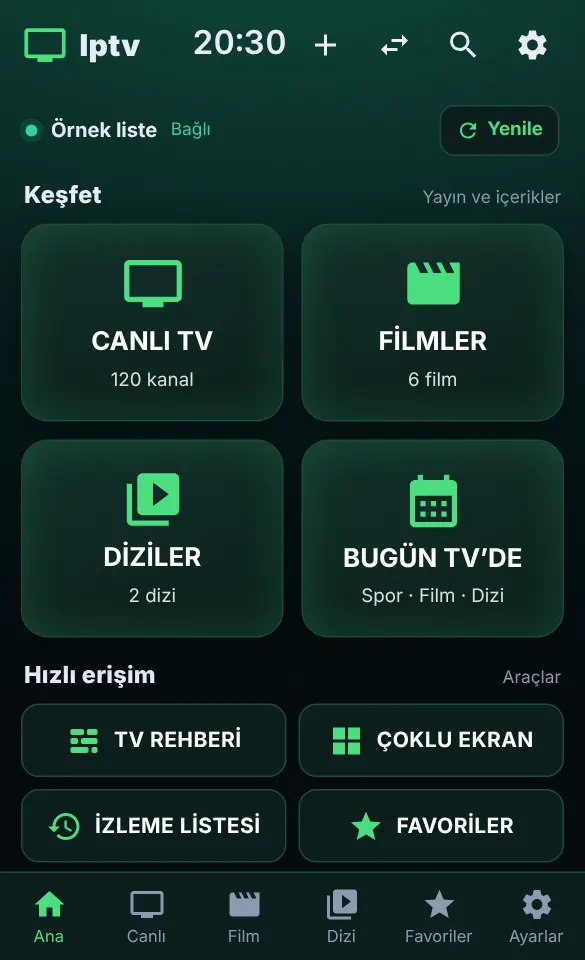
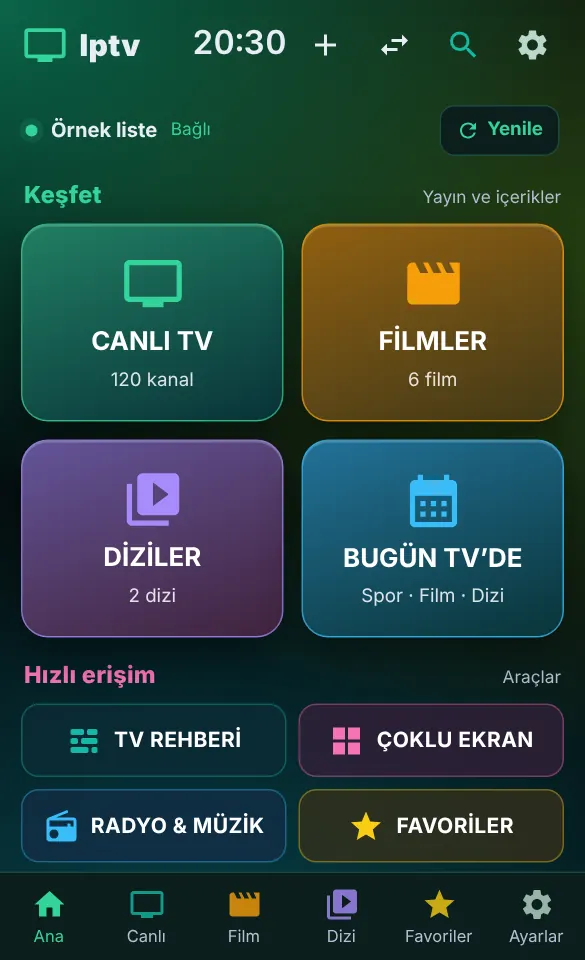
Android: tek renkli temalar canlı, çok renkli temalara çevrildi
- Yeşil, Mavi, Turkuaz, Mor, Turuncu, Kırmızı, Gece yarısı, Okyanus, Grafit, Gül kurusu: üç renkli ışıltılı arka plan, 9 renkli palet, kendi renginde simgeler ve sekmeler
- Ana kutular üç biçimde: cam (glass), dolu gradyan (solid), gradyan çerçeve (neon); kutular ve ayar kutuları paletten boyanır
- Pro kapsamı değişmedi: yalnız eski dört çok renkli tema (pro: true) Pro; dönüştürülen temalar ücretsiz
- Tema önizleme görselleri yeniden üretildi; önizleme betiği port ayarı ve geçici hata şeridi beklemesi kazandı
- Yenilikler kaydı (176)

Claude-Session: https://claude.ai/code/session_013kHKGAN61z3ambXFpmPinE

diff --git a/www/css/app.css b/www/css/app.css
@@ -30,11 +30,12 @@
   --bar-h: 52px;
 }
 /* ---- tema renkleri (Ayarlar → Genel ayarlar → Tema rengi) ---- */
-html[data-theme="blue"] { --bg: #080d1f; --surface: #111a33; --raised: #1b2546; --line: #26315a; --sel: #0e7490; --bg-grad: radial-gradient(1100px 520px at 50% -8%, #1d2d5c 0%, #0b1226 55%, #060a18 100%); --accent: #38bdf8; --accent-ink: #04202c; --accent-soft: rgba(56, 189, 248, 0.18); --mini: #2f6fa3; }
-html[data-theme="cyan"] { --bg: #04141a; --surface: #0a222b; --raised: #103340; --line: #17505f; --sel: #0e7490; --bg-grad: radial-gradient(1100px 520px at 50% -8%, #0f4350 0%, #071c24 55%, #040d12 100%); --accent: #22d3ee; --accent-ink: #02222a; --accent-soft: rgba(34, 211, 238, 0.18); --mini: #178a9c; }
-html[data-theme="purple"] { --bg: #0b0818; --surface: #181233; --raised: #251c4d; --line: #382a73; --sel: #6d28d9; --bg-grad: radial-gradient(1100px 520px at 50% -8%, #2b1b5e 0%, #120b2a 55%, #080515 100%); --accent: #a78bfa; --accent-ink: #170a3a; --accent-soft: rgba(167, 139, 250, 0.2); --mini: #5b3fa8; }
-html[data-theme="orange"] { --bg: #120a04; --surface: #231508; --raised: #35200d; --line: #5a3512; --sel: #c2410c; --bg-grad: radial-gradient(1100px 520px at 50% -8%, #4a2208 0%, #1c0f05 55%, #0c0602 100%); --accent: #fb923c; --accent-ink: #2b1203; --accent-soft: rgba(251, 146, 60, 0.2); --mini: #b45f1d; }
-html[data-theme="red"] { --bg: #12060a; --surface: #251016; --raised: #3a1722; --line: #5c2434; --sel: #be123c; --bg-grad: radial-gradient(1100px 520px at 50% -8%, #4d1220 0%, #1d0910 55%, #0d0407 100%); --accent: #fb7185; --accent-ink: #2d0610; --accent-soft: rgba(251, 113, 133, 0.2); --mini: #b43a52; }
+html[data-theme="green"] { --muted: #b4bfd6; --bg: #050f10; --surface: #0b1f1c; --raised: #12302a; --line: #1d4a3e; --sel: #15803d; --accent: #4ade80; --accent-ink: #032312; --accent-soft: rgba(74, 222, 128, 0.18); --mini: #1f7a52; --bg-grad: radial-gradient(620px 520px at 0% 0%, rgba(16,185,129, 0.5), transparent 62%), radial-gradient(620px 520px at 100% 28%, rgba(132,204,22, 0.26), transparent 62%), radial-gradient(700px 560px at 30% 105%, rgba(6,182,212, 0.32), transparent 62%); --p0: #b9d8cb; --p1: #34d399; --p2: #f59e0b; --p3: #a78bfa; --p4: #38bdf8; --p5: #14b8a6; --p6: #f472b6; --p7: #facc15; --p8: #fb7185; }
+html[data-theme="blue"] { --muted: #b4bfd6; --bg: #080d1f; --surface: #111a33; --raised: #1b2546; --line: #26315a; --sel: #0e7490; --accent: #38bdf8; --accent-ink: #04202c; --accent-soft: rgba(56, 189, 248, 0.18); --mini: #2f6fa3; --bg-grad: radial-gradient(620px 520px at 0% 0%, rgba(59,130,246, 0.48), transparent 62%), radial-gradient(620px 520px at 100% 28%, rgba(139,92,246, 0.34), transparent 62%), radial-gradient(700px 560px at 30% 105%, rgba(6,182,212, 0.3), transparent 62%); --p0: #b4c6ee; --p1: #34d399; --p2: #fb923c; --p3: #a78bfa; --p4: #60a5fa; --p5: #22d3ee; --p6: #f472b6; --p7: #fbbf24; --p8: #fb7185; }
+html[data-theme="cyan"] { --muted: #b4bfd6; --bg: #04141a; --surface: #0a222b; --raised: #103340; --line: #17505f; --sel: #0e7490; --accent: #22d3ee; --accent-ink: #02222a; --accent-soft: rgba(34, 211, 238, 0.18); --mini: #178a9c; --bg-grad: radial-gradient(620px 520px at 0% 0%, rgba(6,182,212, 0.5), transparent 62%), radial-gradient(620px 520px at 100% 28%, rgba(16,185,129, 0.28), transparent 62%), radial-gradient(700px 560px at 30% 105%, rgba(59,130,246, 0.34), transparent 62%); --p0: #aee0e6; --p1: #4ade80; --p2: #fb923c; --p3: #818cf8; --p4: #38bdf8; --p5: #22d3ee; --p6: #f472b6; --p7: #facc15; --p8: #fb7185; }
+html[data-theme="purple"] { --muted: #b4bfd6; --bg: #0b0818; --surface: #181233; --raised: #251c4d; --line: #382a73; --sel: #6d28d9; --accent: #a78bfa; --accent-ink: #170a3a; --accent-soft: rgba(167, 139, 250, 0.2); --mini: #5b3fa8; --bg-grad: radial-gradient(620px 520px at 0% 0%, rgba(139,92,246, 0.55), transparent 62%), radial-gradient(620px 520px at 100% 28%, rgba(217,70,239, 0.34), transparent 62%), radial-gradient(700px 560px at 30% 105%, rgba(59,130,246, 0.3), transparent 62%); --p0: #cbbdf0; --p1: #34d399; --p2: #fb923c; --p3: #c084fc; --p4: #818cf8; --p5: #22d3ee; --p6: #f472b6; --p7: #fbbf24; --p8: #fb7185; }
+html[data-theme="orange"] { --muted: #b4bfd6; --bg: #120a04; --surface: #231508; --raised: #35200d; --line: #5a3512; --sel: #c2410c; --accent: #fb923c; --accent-ink: #2b1203; --accent-soft: rgba(251, 146, 60, 0.2); --mini: #b45f1d; --bg-grad: radial-gradient(620px 520px at 0% 0%, rgba(249,115,22, 0.46), transparent 62%), radial-gradient(620px 520px at 100% 28%, rgba(244,63,94, 0.3), transparent 62%), radial-gradient(700px 560px at 30% 105%, rgba(245,158,11, 0.26), transparent 62%); --p0: #f0cfae; --p1: #a3e635; --p2: #fb923c; --p3: #c084fc; --p4: #38bdf8; --p5: #2dd4bf; --p6: #fb7185; --p7: #fbbf24; --p8: #f87171; }
+html[data-theme="red"] { --muted: #b4bfd6; --bg: #12060a; --surface: #251016; --raised: #3a1722; --line: #5c2434; --sel: #be123c; --accent: #fb7185; --accent-ink: #2d0610; --accent-soft: rgba(251, 113, 133, 0.2); --mini: #b43a52; --bg-grad: radial-gradient(620px 520px at 0% 0%, rgba(244,63,94, 0.48), transparent 62%), radial-gradient(620px 520px at 100% 28%, rgba(249,115,22, 0.26), transparent 62%), radial-gradient(700px 560px at 30% 105%, rgba(168,85,247, 0.3), transparent 62%); --p0: #f0bcc6; --p1: #4ade80; --p2: #fb923c; --p3: #d946ef; --p4: #60a5fa; --p5: #22d3ee; --p6: #f472b6; --p7: #fbbf24; --p8: #fb7185; }
 /* ---- çok renkli temalar: paleti --p0…--p8 (p0 nötr, p1 yeşil, p2 turuncu, p3 mor, p4 mavi, p5 turkuaz, p6 pembe, p7 sarı, p8 kırmızı); her ana kutu ve simge kendi rengini html[data-multi] kurallarından alır ---- */
 html[data-theme="cards"] { --bg: #090c14; --surface: #111623; --raised: #1a2133; --line: #2a3350; --sel: #6d28d9; --bg-grad: radial-gradient(1100px 520px at 50% -8%, #1b2440 0%, #0b0f1b 55%, #06080f 100%); --accent: #a78bfa; --accent-ink: #170a3a; --accent-soft: rgba(167, 139, 250, 0.18); --mini: #5b3fa8; --p0: #a3b3cc; --p1: #4ade80; --p2: #fb923c; --p3: #a78bfa; --p4: #38bdf8; --p5: #22d3ee; --p6: #f472b6; --p7: #fbbf24; --p8: #fb7185; }
 html[data-theme="solid"] { --bg: #080b12; --surface: #101521; --raised: #19202f; --line: #283148; --sel: #6d28d9; --bg-grad: radial-gradient(1100px 520px at 50% -8%, #18203a 0%, #0a0e19 55%, #05070d 100%); --accent: #a78bfa; --accent-ink: #170a3a; --accent-soft: rgba(167, 139, 250, 0.18); --mini: #5b3fa8; --p0: #a3b3cc; --p1: #4ade80; --p2: #fb923c; --p3: #a78bfa; --p4: #38bdf8; --p5: #22d3ee; --p6: #f472b6; --p7: #fbbf24; --p8: #fb7185; }
@@ -63,6 +64,18 @@ html[data-theme="sunset"] .tile.t-movie { --accent: #fde68a; background: linear-
 html[data-theme="sunset"] .tile.t-series { --accent: #f9a8d4; background: linear-gradient(165deg, rgba(236, 72, 153, 0.46) 0%, rgba(20, 8, 24, 0.7) 100%); }
 html[data-theme="sunset"] .tile.t-today { --accent: #d8b4fe; background: linear-gradient(165deg, rgba(168, 85, 247, 0.46) 0%, rgba(20, 8, 24, 0.7) 100%); }
 html[data-theme="sunset"] .tile.mini { background: rgba(20, 8, 24, 0.6); border: 1px solid rgba(255, 255, 255, 0.18); }
+/* Canlı temalar (green, blue, cyan, purple, orange, red, midnight, ocean, graphite, rose): ana kutular ve ayar kutuları temanın kendi paletinden (--p1…--p8) boyanır.
+   data-vivid=glass renk tonlu cam, solid dolu gradyan, neon gradyan çerçeve (theme.js her temanın biçimini seçer). --tp kutunun ana, --tq ikinci rengi. */
+html[data-vivid] .tile.t-live { --tp: var(--p1); --tq: var(--p5); }
+html[data-vivid] .tile.t-movie { --tp: var(--p2); --tq: var(--p7); }
+html[data-vivid] .tile.t-series { --tp: var(--p3); --tq: var(--p6); }
+html[data-vivid] .tile.t-today { --tp: var(--p4); --tq: var(--p5); }
+html[data-vivid] .tile:not(.mini) { --accent: var(--tp); --accent-soft: color-mix(in srgb, var(--tp) 22%, transparent); }
+html[data-vivid=glass] .tile:not(.mini) { border: 1px solid color-mix(in srgb, var(--tp) 72%, transparent); background: linear-gradient(160deg, color-mix(in srgb, var(--tp) 58%, #070a16) 0%, color-mix(in srgb, var(--tq) 24%, #070a16) 100%); box-shadow: 0 10px 26px rgba(0, 0, 0, 0.4), inset 0 1px 0 rgba(255, 255, 255, 0.2); }
+html[data-vivid=solid] .tile:not(.mini) { border: 0; background: linear-gradient(150deg, color-mix(in srgb, var(--tp) 84%, #000) 0%, color-mix(in srgb, var(--tq) 38%, #000) 100%); box-shadow: 0 10px 24px rgba(0, 0, 0, 0.45), inset 0 1px 0 rgba(255, 255, 255, 0.24); }
+html[data-vivid=solid] .tile:not(.mini) .ic { color: #fff; }
+html[data-vivid=neon] .tile:not(.mini) { border: 1.5px solid transparent; background: linear-gradient(160deg, color-mix(in srgb, var(--tp) 22%, rgba(8, 12, 28, 0.9)), color-mix(in srgb, var(--tq) 10%, rgba(8, 12, 28, 0.9))) padding-box, linear-gradient(135deg, var(--tp), var(--tq)) border-box; box-shadow: 0 8px 26px rgba(0, 0, 0, 0.4); }
+html[data-vivid] .tile.mini { background: color-mix(in srgb, var(--accent) 14%, rgba(10, 13, 30, 0.72)); }
 /* Küçük kısayol kutuları, sekme çubuğu, üst çubuk ve ayar kutuları: her simge kendi renginde */
 html[data-multi] .tile.mini.t-guide { --accent: var(--p5); }
 html[data-multi] .tile.mini.t-multi { --accent: var(--p6); }
@@ -111,6 +124,10 @@ html[data-theme="solid"][data-multi] .set-tile { border: 0; color: #fff; backgro
 html[data-theme="solid"][data-multi] .set-tile .ic { color: #fff; }
 html[data-multi] .set-tile[data-set=update] { --tc: var(--p2); }
 html[data-multi] .set-tile .ic { color: var(--tc, var(--accent)); }
+/* canlı temaların ayar kutuları (genel .set-tile kurallarından sonra gelmeli) */
+html[data-vivid=glass] .set-tile, html[data-vivid=neon] .set-tile { border-color: rgba(255, 255, 255, 0.16); background: color-mix(in srgb, var(--tc, var(--accent)) 14%, rgba(14, 17, 36, 0.74)); }
+html[data-vivid=solid] .set-tile { border: 0; color: #fff; background: linear-gradient(150deg, color-mix(in srgb, var(--tc, var(--accent)) 78%, #000) 0%, color-mix(in srgb, var(--tc, var(--accent)) 36%, #000) 100%); box-shadow: 0 8px 20px rgba(0, 0, 0, 0.35), inset 0 1px 0 rgba(255, 255, 255, 0.2); }
+html[data-vivid=solid] .set-tile .ic { color: #fff; }
 /* Çok renkli temalarda vurgu rengi bölüme göre değişir: sekmeler (html[data-sec], app.js renderTab yazar) ve tam sayfalar kendi paletlerinden
    rengini alır; chip, rozet, ilerleme çubuğu, düğme ve sayfa parıltısı tek (mor) vurgu yerine bölümün rengiyle çıkar. Dolgu üstündeki yazı hep koyu
    (sarı gibi açık dolguda beyaz yazı olmaz). Ana kutular ve ayar kartları kendi --accent kurallarıyla bunun üstüne yazar. */
@@ -2080,10 +2097,10 @@ html.kbd .sp-top .sp-table-btn:focus{position:relative;z-index:3;transform:scale
 
 
 /* Ek tema paletleri */
-html[data-theme="midnight"] { --bg:#070b16; --surface:#111827; --raised:#1e293b; --line:#334155; --sel:#4338ca; --bg-grad:radial-gradient(1000px 520px at 50% -8%,#26345b 0%,#10182b 52%,#060914 100%); --text:#edf2ff; --muted:#9aa8c2; --accent: #a5b4fc; --accent-ink:#111337; --accent-soft:rgba(165,180,252,.18); --mini:#4f46e5; }
-html[data-theme="ocean"] { --bg:#03131b; --surface:#08232d; --raised:#103846; --line:#155568; --sel:#0e7490; --bg-grad:radial-gradient(1000px 520px at 50% -8%,#0c5363 0%,#082631 54%,#020d13 100%); --text:#e6fbff; --muted:#91b9c4; --accent: #2dd4bf; --accent-ink:#032a2a; --accent-soft:rgba(45,212,191,.18); --mini:#0f766e; }
-html[data-theme="graphite"] { --bg:#101216; --surface:#1b1f25; --raised:#292f38; --line:#414955; --sel:#64748b; --bg-grad:radial-gradient(1000px 520px at 50% -8%,#343b46 0%,#1a1e25 54%,#0b0d10 100%); --text:#f1f5f9; --muted:#aab3bf; --accent: #cbd5e1; --accent-ink:#18202a; --accent-soft:rgba(203,213,225,.16); --mini:#64748b; }
-html[data-theme="rose"] { --bg:#160811; --surface:#29101d; --raised:#3b192a; --line:#633047; --sel:#be185d; --bg-grad:radial-gradient(1000px 520px at 50% -8%,#61233e 0%,#2a1020 54%,#10060c 100%); --text:#fff0f5; --muted:#d0a8b8; --accent: #fb8cae; --accent-ink:#390b20; --accent-soft:rgba(251,140,174,.18); --mini:#a83260; }
+html[data-theme="midnight"] { --muted: #b4bfd6; --bg:#070b16; --surface:#111827; --raised:#1e293b; --line:#334155; --sel:#4338ca; --text:#edf2ff; --accent: #a5b4fc; --accent-ink:#111337; --accent-soft:rgba(165,180,252,.18); --mini:#4f46e5; --bg-grad: radial-gradient(620px 520px at 0% 0%, rgba(99,102,241, 0.5), transparent 62%), radial-gradient(620px 520px at 100% 28%, rgba(14,165,233, 0.28), transparent 62%), radial-gradient(700px 560px at 30% 105%, rgba(236,72,153, 0.26), transparent 62%); --p0: #b6c0e6; --p1: #5eead4; --p2: #fdba74; --p3: #a5b4fc; --p4: #7dd3fc; --p5: #67e8f9; --p6: #f0abfc; --p7: #fde68a; --p8: #fda4af; }
+html[data-theme="ocean"] { --muted: #b4bfd6; --bg:#03131b; --surface:#08232d; --raised:#103846; --line:#155568; --sel:#0e7490; --text:#e6fbff; --accent: #2dd4bf; --accent-ink:#032a2a; --accent-soft:rgba(45,212,191,.18); --mini:#0f766e; --bg-grad: radial-gradient(620px 520px at 0% 0%, rgba(20,184,166, 0.46), transparent 62%), radial-gradient(620px 520px at 100% 28%, rgba(37,99,235, 0.36), transparent 62%), radial-gradient(700px 560px at 30% 105%, rgba(16,185,129, 0.24), transparent 62%); --p0: #a9dbd7; --p1: #34d399; --p2: #fb923c; --p3: #a78bfa; --p4: #3b82f6; --p5: #14b8a6; --p6: #f472b6; --p7: #fbbf24; --p8: #fb7185; }
+html[data-theme="graphite"] { --muted: #b4bfd6; --bg:#101216; --surface:#1b1f25; --raised:#292f38; --line:#414955; --sel:#64748b; --text:#f1f5f9; --accent: #cbd5e1; --accent-ink:#18202a; --accent-soft:rgba(203,213,225,.16); --mini:#64748b; --bg-grad: radial-gradient(620px 520px at 0% 0%, rgba(148,163,184, 0.24), transparent 62%), radial-gradient(620px 520px at 100% 28%, rgba(139,92,246, 0.26), transparent 62%), radial-gradient(700px 560px at 30% 105%, rgba(20,184,166, 0.22), transparent 62%); --p0: #cbd5e1; --p1: #4ade80; --p2: #fb923c; --p3: #a78bfa; --p4: #38bdf8; --p5: #2dd4bf; --p6: #f472b6; --p7: #fbbf24; --p8: #fb7185; }
+html[data-theme="rose"] { --muted: #b4bfd6; --bg:#160811; --surface:#29101d; --raised:#3b192a; --line:#633047; --sel:#be185d; --text:#fff0f5; --accent: #fb8cae; --accent-ink:#390b20; --accent-soft:rgba(251,140,174,.18); --mini:#a83260; --bg-grad: radial-gradient(620px 520px at 0% 0%, rgba(236,72,153, 0.46), transparent 62%), radial-gradient(620px 520px at 100% 28%, rgba(139,92,246, 0.32), transparent 62%), radial-gradient(700px 560px at 30% 105%, rgba(251,146,60, 0.22), transparent 62%); --p0: #f3c4d6; --p1: #86efac; --p2: #fdba74; --p3: #c4b5fd; --p4: #93c5fd; --p5: #5eead4; --p6: #f472b6; --p7: #fde68a; --p8: #fb7185; }
 
 /* Son izlenen temizleme kısayolu */
 #btn-clear-recent { color:var(--danger); font-size:1.05rem; line-height:1; }

diff --git a/www/js/theme.js b/www/js/theme.js
@@ -1,28 +1,29 @@
 // Tema renkleri: Ayarlar → Genel ayarlar → Tema rengi. Renkler CSS'te (html[data-theme]) tanımlıdır;
 // burada yalnız seçenek listesi, seçimin uygulanması ve tarayıcı çubuğu rengi bulunur.
 export const THEMES = [
-  { id: 'green', name: 'Yeşil', swatch: '#4ade80', bar: '#071a17' },
-  { id: 'blue', name: 'Mavi', swatch: '#38bdf8', bar: '#0b1226' },
-  { id: 'cyan', name: 'Turkuaz', swatch: '#22d3ee', bar: '#06191f' },
-  { id: 'purple', name: 'Mor', swatch: '#a78bfa', bar: '#130d2b' },
-  { id: 'orange', name: 'Turuncu', swatch: '#fb923c', bar: '#1a0f06' },
-  { id: 'red', name: 'Kırmızı', swatch: '#fb7185', bar: '#1c0a0f' },
-  // Çok renkli temalar: her ana kutu ve simge kendi renginde (CSS'te html[data-multi] kuralları + --p0…--p8 paleti).
-  // swatch burada tek renk değil, seçicideki yuvarlağın arka planıdır.
-  { id: 'cards', name: 'Renkli kartlar', swatch: 'conic-gradient(#4ade80, #38bdf8, #a78bfa, #fb7185, #fb923c, #4ade80)', bar: '#0b0f1b', multi: true },
-  { id: 'solid', name: 'Dolu renk', swatch: 'linear-gradient(135deg, #16a34a 0%, #ea580c 34%, #7c3aed 67%, #0284c7 100%)', bar: '#0a0e19', multi: true },
-  { id: 'neon', name: 'Neon cam', swatch: 'linear-gradient(135deg, #a855f7 0%, #38bdf8 50%, #ec4899 100%)', bar: '#070816', multi: true },
-  { id: 'sunset', name: 'Gün batımı', swatch: 'linear-gradient(160deg, #6b21a8 0%, #be185d 50%, #ea580c 100%)', bar: '#3a0f4a', multi: true },
-  { id: 'midnight', name: 'Gece yarısı', swatch: '#a5b4fc', bar: '#080d19' },
-  { id: 'ocean', name: 'Okyanus', swatch: '#2dd4bf', bar: '#041923' },
-  { id: 'graphite', name: 'Grafit', swatch: '#cbd5e1', bar: '#101318' },
-  { id: 'rose', name: 'Gül kurusu', swatch: '#fb8cae', bar: '#1b0a14' },
+  // Canlı temalar: her biri çok renklidir (CSS'te html[data-multi] kuralları + --p0…--p8 paleti). vivid = ana kutuların biçimi:
+  // 'glass' (renk tonlu cam), 'solid' (dolu gradyan), 'neon' (gradyan çerçeve). swatch seçicideki yuvarlağın arka planıdır.
+  { id: 'green', name: 'Yeşil', swatch: 'linear-gradient(135deg, #34d399 0%, #a3e635 50%, #22d3ee 100%)', bar: '#071a17', multi: true, vivid: 'glass' },
+  { id: 'blue', name: 'Mavi', swatch: 'linear-gradient(135deg, #3b82f6 0%, #8b5cf6 50%, #22d3ee 100%)', bar: '#0b1226', multi: true, vivid: 'neon' },
+  { id: 'cyan', name: 'Turkuaz', swatch: 'linear-gradient(135deg, #06b6d4 0%, #10b981 50%, #3b82f6 100%)', bar: '#06191f', multi: true, vivid: 'solid' },
+  { id: 'purple', name: 'Mor', swatch: 'linear-gradient(135deg, #8b5cf6 0%, #d946ef 50%, #3b82f6 100%)', bar: '#130d2b', multi: true, vivid: 'glass' },
+  { id: 'orange', name: 'Turuncu', swatch: 'linear-gradient(135deg, #f97316 0%, #f43f5e 50%, #f59e0b 100%)', bar: '#1a0f06', multi: true, vivid: 'solid' },
+  { id: 'red', name: 'Kırmızı', swatch: 'linear-gradient(135deg, #f43f5e 0%, #f97316 50%, #a855f7 100%)', bar: '#1c0a0f', multi: true, vivid: 'glass' },
+  // Eski çok renkli temalar: her ana kutu ve simge kendi renginde (kutu stilleri CSS'te temaya özel).
+  { id: 'cards', name: 'Renkli kartlar', swatch: 'conic-gradient(#4ade80, #38bdf8, #a78bfa, #fb7185, #fb923c, #4ade80)', bar: '#0b0f1b', multi: true, pro: true },
+  { id: 'solid', name: 'Dolu renk', swatch: 'linear-gradient(135deg, #16a34a 0%, #ea580c 34%, #7c3aed 67%, #0284c7 100%)', bar: '#0a0e19', multi: true, pro: true },
+  { id: 'neon', name: 'Neon cam', swatch: 'linear-gradient(135deg, #a855f7 0%, #38bdf8 50%, #ec4899 100%)', bar: '#070816', multi: true, pro: true },
+  { id: 'sunset', name: 'Gün batımı', swatch: 'linear-gradient(160deg, #6b21a8 0%, #be185d 50%, #ea580c 100%)', bar: '#3a0f4a', multi: true, pro: true },
+  { id: 'midnight', name: 'Gece yarısı', swatch: 'linear-gradient(135deg, #6366f1 0%, #0ea5e9 50%, #ec4899 100%)', bar: '#080d19', multi: true, vivid: 'neon' },
+  { id: 'ocean', name: 'Okyanus', swatch: 'linear-gradient(135deg, #14b8a6 0%, #2563eb 50%, #10b981 100%)', bar: '#041923', multi: true, vivid: 'glass' },
+  { id: 'graphite', name: 'Grafit', swatch: 'linear-gradient(135deg, #94a3b8 0%, #8b5cf6 50%, #14b8a6 100%)', bar: '#101318', multi: true, vivid: 'solid' },
+  { id: 'rose', name: 'Gül kurusu', swatch: 'linear-gradient(135deg, #ec4899 0%, #8b5cf6 50%, #fb923c 100%)', bar: '#1b0a14', multi: true, vivid: 'neon' },
 ];
 export const DEFAULT_THEME = 'green';
 
 // Pro temalar: yönetici panelinde (Temalar sekmesi) işaretlenir ve yapılandırma dosyasıyla cihazlara gelir.
-// Hiç işaretleme yapılmamışsa çok renkli temalar Pro'dur. Varsayılan tema hiçbir zaman Pro olamaz (kilitli açılış teması olmaz).
-export const DEFAULT_PRO_THEMES = THEMES.filter((t) => t.multi).map((t) => t.id);
+// Hiç işaretleme yapılmamışsa eski çok renkli temalar (pro: true) Pro'dur; canlı hale gelen eski tek renkli temalar ücretsiz kalır. Varsayılan tema hiçbir zaman Pro olamaz (kilitli açılış teması olmaz).
+export const DEFAULT_PRO_THEMES = THEMES.filter((t) => t.pro).map((t) => t.id);
 export const cleanProThemes = (ids) =>
   Array.isArray(ids) ? [...new Set(ids.filter((id) => typeof id === 'string' && id !== DEFAULT_THEME && THEMES.some((t) => t.id === id)))] : null;
 export const proThemeIds = (override) => cleanProThemes(override) || DEFAULT_PRO_THEMES;
@@ -39,6 +40,8 @@ export function applyTheme(id, doc = globalThis.document) {
     doc.documentElement.dataset.theme = t.id;
     if (t.multi) doc.documentElement.dataset.multi = '1';
     else delete doc.documentElement.dataset.multi;
+    if (t.vivid) doc.documentElement.dataset.vivid = t.vivid;
+    else delete doc.documentElement.dataset.vivid;
     const meta = doc.querySelector && doc.querySelector('meta[name="theme-color"]');
     if (meta) meta.setAttribute('content', t.bar);
   }

diff --git a/tests/theme.test.js b/tests/theme.test.js
@@ -15,18 +15,22 @@ test('tema listesi: varsayılan yeşil, kimlikler benzersiz, bilinmeyen kimlik y
   assert.equal(themeById('purple').id, 'purple');
 });
 
-test('her temanın renkleri CSS\'te tanımlı ve önizleme rengi vurgu rengiyle aynı', () => {
+test('her temanın renkleri CSS\'te tanımlı; tüm temalar çok renkli (gradyan önizleme + tam palet)', () => {
   const root = css.match(/:root \{[\s\S]*?\n\}/)[0];
   assert.match(root, /--accent: #4ade80/, 'varsayılan (yeşil) :root içinde');
   for (const t of THEMES) {
-    const block = t.id === DEFAULT_THEME ? root : (css.match(new RegExp(`html\\[data-theme="${t.id}"\\] \\{([^}]*)\\}`)) || [])[1];
+    const own = (css.match(new RegExp(`html\\[data-theme="${t.id}"\\] \\{([^}]*)\\}`)) || [])[1];
+    // varsayılan tema temel değerleri :root'tan alır, canlı katmanı kendi bloğundadır
+    const block = t.id === DEFAULT_THEME ? root + (own || '') : own;
     assert.ok(block, `${t.id} teması CSS'te yok`);
     for (const k of ['--bg', '--surface', '--raised', '--line', '--sel', '--bg-grad', '--accent', '--accent-ink', '--accent-soft', '--mini']) {
       assert.ok(block.includes(k + ':'), `${t.id}: ${k} eksik`);
     }
-    // çok renkli temalarda swatch bir gradyandır; vurgu rengi eşleşmesi yalnız tek renkli temalar için aranır
-    if (!t.multi) assert.ok(block.toLowerCase().includes('--accent: ' + t.swatch.toLowerCase()), `${t.id}: önizleme rengi vurgu rengiyle uyuşmuyor`);
-    else assert.match(t.swatch, /gradient\(/, `${t.id}: çok renkli temanın önizlemesi gradyan olmalı`);
+    assert.equal(t.multi, true, `${t.id}: tek renkli tema kalmamalı`);
+    assert.match(t.swatch, /gradient\(/, `${t.id}: önizleme yuvarlağı gradyan olmalı`);
+    for (let i = 0; i <= 8; i++) assert.ok((own || '').includes(`--p${i}:`), `${t.id}: --p${i} eksik`);
+    // canlı arka plan: en az üç renkli ışıltı (tek renkli zemin değil)
+    if (t.vivid) assert.ok(((own.match(/--bg-grad:[^;]*/) || [''])[0].match(/radial-gradient/g) || []).length >= 3, `${t.id}: arka plan çok renkli değil`);
   }
 });
 
@@ -52,18 +56,31 @@ test('ayar kutuları (.set-tile) renklerini temadan alır, sabit renk yok', () =
   assert.match(all, /\.set-tile \.ic \{[^}]*color: var\(--accent\)/);
 });
 
-test('çok renkli temalar: 4 tane, palet tam, applyTheme data-multi yazar ve tek renkliye dönünce siler', () => {
+test('çok renkli temalar: hepsi; applyTheme data-multi ve data-vivid yazar, eski biçimli temada vivid silinir', () => {
   const multi = THEMES.filter((t) => t.multi);
-  assert.deepEqual(multi.map((t) => t.id), ['cards', 'solid', 'neon', 'sunset']);
-  for (const t of multi) {
-    const block = css.match(new RegExp(`html\\[data-theme="${t.id}"\\] \\{([^}]*)\\}`))[1];
-    for (let i = 0; i <= 8; i++) assert.ok(block.includes(`--p${i}:`), `${t.id}: --p${i} eksik`);
-  }
+  assert.equal(multi.length, THEMES.length, 'tek renkli tema kalmamalı');
+  const vivid = THEMES.filter((t) => t.vivid).map((t) => t.id);
+  assert.deepEqual(vivid, ['green', 'blue', 'cyan', 'purple', 'orange', 'red', 'midnight', 'ocean', 'graphite', 'rose']);
+  for (const t of THEMES.filter((x) => x.vivid)) assert.ok(['glass', 'solid', 'neon'].includes(t.vivid), `${t.id}: bilinmeyen biçim`);
   const doc = { documentElement: { dataset: {} }, querySelector: () => null };
   assert.equal(applyTheme('neon', doc), 'neon');
   assert.equal(doc.documentElement.dataset.multi, '1');
+  assert.equal('vivid' in doc.documentElement.dataset, false, 'eski çok renkli temada vivid yok');
   assert.equal(applyTheme('blue', doc), 'blue');
-  assert.equal('multi' in doc.documentElement.dataset, false);
+  assert.equal(doc.documentElement.dataset.multi, '1');
+  assert.equal(doc.documentElement.dataset.vivid, 'neon');
+  assert.equal(applyTheme('cyan', doc), 'cyan');
+  assert.equal(doc.documentElement.dataset.vivid, 'solid');
+});
+
+test('canlı temalar: her ana kutu için üç biçimde de kural var, palet kutulara bağlı', () => {
+  for (const k of ['live', 'movie', 'series', 'today']) assert.ok(css.includes(`html[data-vivid] .tile.t-${k} {`), `canlı tema: ${k} kutusu`);
+  for (const v of ['glass', 'solid', 'neon']) {
+    assert.ok(css.includes(`html[data-vivid=${v}] .tile:not(.mini) {`), `${v}: ana kutu biçimi yok`);
+    assert.ok(css.includes(`html[data-vivid=${v}] .set-tile`), `${v}: ayar kutusu biçimi yok`);
+  }
+  // ayar kutusu biçimleri genel .set-tile kurallarından SONRA gelmeli (aynı özgüllükte sıra belirler)
+  assert.ok(css.indexOf('html[data-vivid=solid] .set-tile {') > css.indexOf('html[data-multi] .set-tile .ic {'));
 });
 
 test('çok renkli temalarda her sekme, her ayar kutusu ve ana kutu için renk kuralı var', () => {

diff --git a/www/js/changelog.js b/www/js/changelog.js
@@ -2,6 +2,15 @@
 // CI, en yeni kaydı güncelleme penceresinde göstermek üzere notes.txt'ye yazar (scripts/build-www.mjs).
 export const CHANGELOG = [
   {
+    id: 176,
+    title: 'Canlı, çok renkli temalar ve daha hızlı açılış',
+    items: [
+      'Tek renkli temalar kalmadı: Yeşil, Mavi, Turkuaz, Mor, Turuncu, Kırmızı, Gece yarısı, Okyanus, Grafit ve Gül kurusu artık çok renkli arka plan, kendi renginde simgeler ve renkli ana kutular ile geliyor (Ayarlar › Genel ayarlar › Tema rengi)',
+      'İlk kurulumda liste indirme ve açılış hızlandı: Xtream listeleri aynı anda indirilir, liste diske ekran çizildikten sonra yazılır',
+      'Film ve dizi vitrininde kaydırma daha akıcı; ana sayfa açılışındaki donma azaldı',
+    ],
+  },
+  {
     id: 175,
     title: 'TV’de akıcılık: fragman isteğe bağlı, veriler belleğe alınıyor',
     items: [

diff --git a/scripts/theme-previews.py b/scripts/theme-previews.py
@@ -18,7 +18,7 @@ KOK = Path(__file__).resolve().parent.parent
 OUT = KOK / 'www' / 'img' / 'themes'
 W, H, SCALE = 390, 640, 1.5   # telefon dikey ekranı; kart ~165 px genişliğinde gösterilir
 CHROME = os.environ.get('CHROME', '/usr/bin/google-chrome')
-HTTP_PORT, MOCK_PORT = 8765, 8099
+HTTP_PORT, MOCK_PORT = int(os.environ.get('HTTP_PORT', 8765)), int(os.environ.get('MOCK_PORT', 8099))  # başka bir şey bu portları tutuyorsa ortam değişkeniyle değiştirilir
 
 SEED = """
 try {
@@ -56,6 +56,12 @@ async def main(only):
                 if await c.count():
                     await c.first.click()
                     await pg.wait_for_timeout(300)
+            await pg.add_style_tag(content='#banner { display: none !important; }')  # geçici uyarı çubuğu (ör. rehber hatası) yerleşimi kaydırmasın
+            for beklenen in ("includes('Hata:')", "includes('Hata:') === false"):  # çevrimdışı rehber hatası geçici bir şerit çıkarır: önce görünmesi, sonra kaybolması beklenir
+                try:
+                    await pg.wait_for_function("() => document.body.innerText." + beklenen.replace(' === false', '') + (' === false' if 'false' in beklenen else ''), timeout=15000)
+                except Exception:
+                    pass
             for tid in ids:
                 await pg.evaluate("(id) => import('./js/theme.js').then((m) => m.applyTheme(id))", tid)
                 await pg.wait_for_timeout(500)
